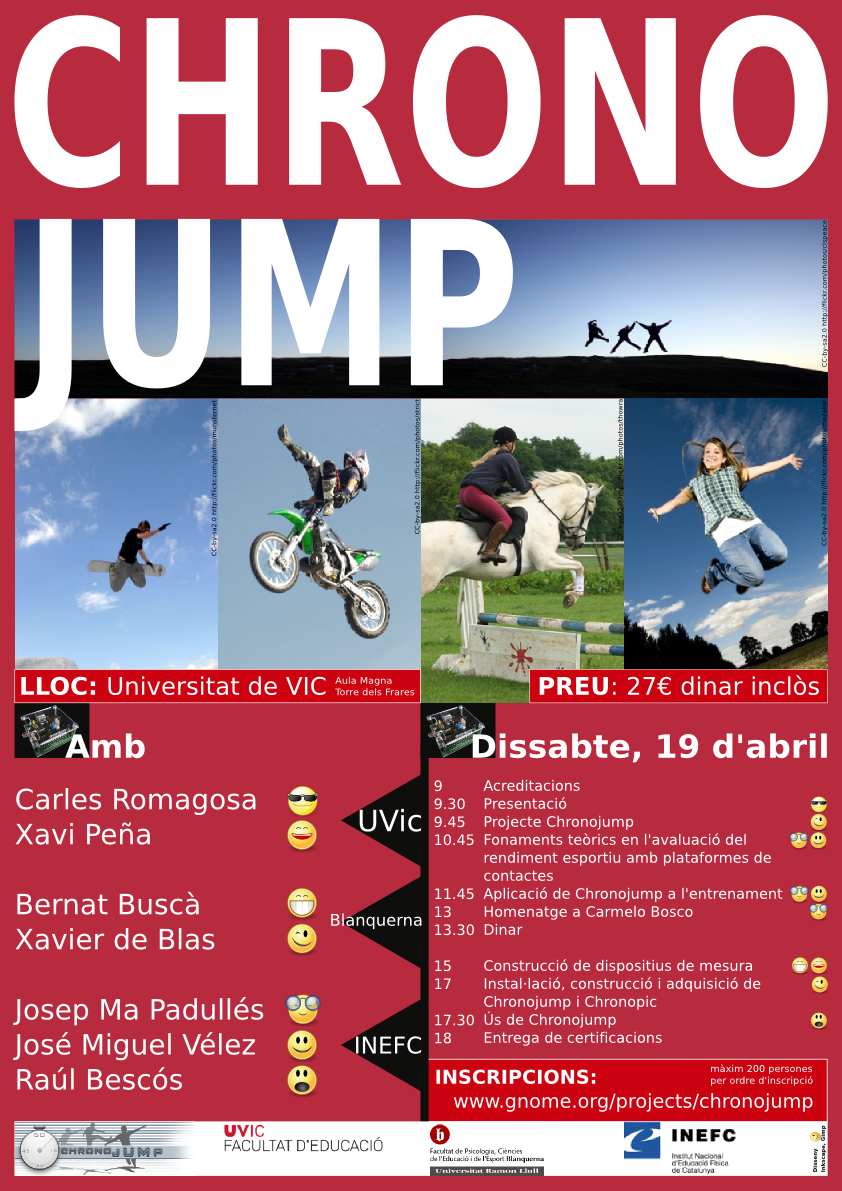
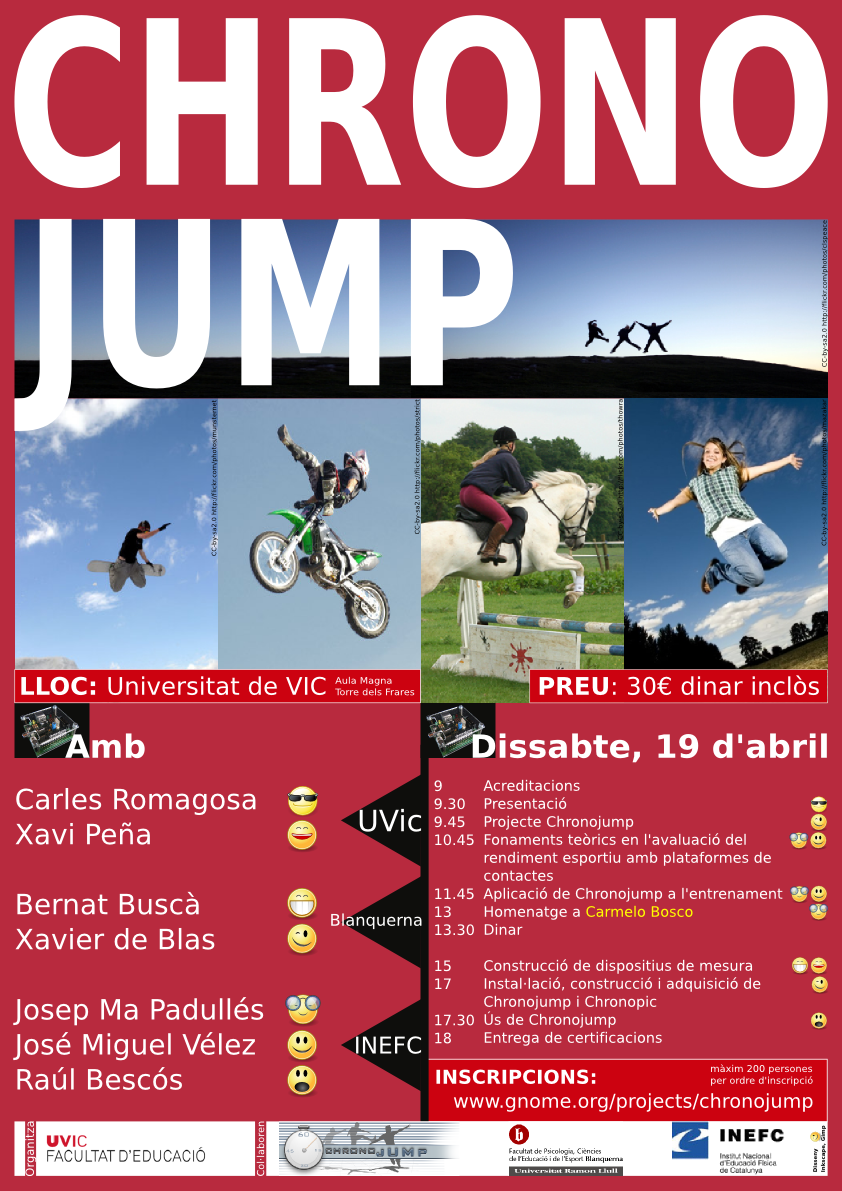
changed poster (30e)
svn path=/trunk/; revision=6001

diff --git a/www.gnome.org/projects/chronojump/index.html b/www.gnome.org/projects/chronojump/index.html
@@ -57,7 +57,7 @@
 					</tr>
 					<tr valign="top" align="center">
 						<td width="50%" colspan="2">
-							<a href="courses_ca.html"><img src="images/poster_chronojump_vic-72_mini.png"></a>
+							<a href="courses_ca.html"><img src="images/poster_chronojump_vic-72_nano.png"></a>
 						</td>
 					</tr>
 				</table>
